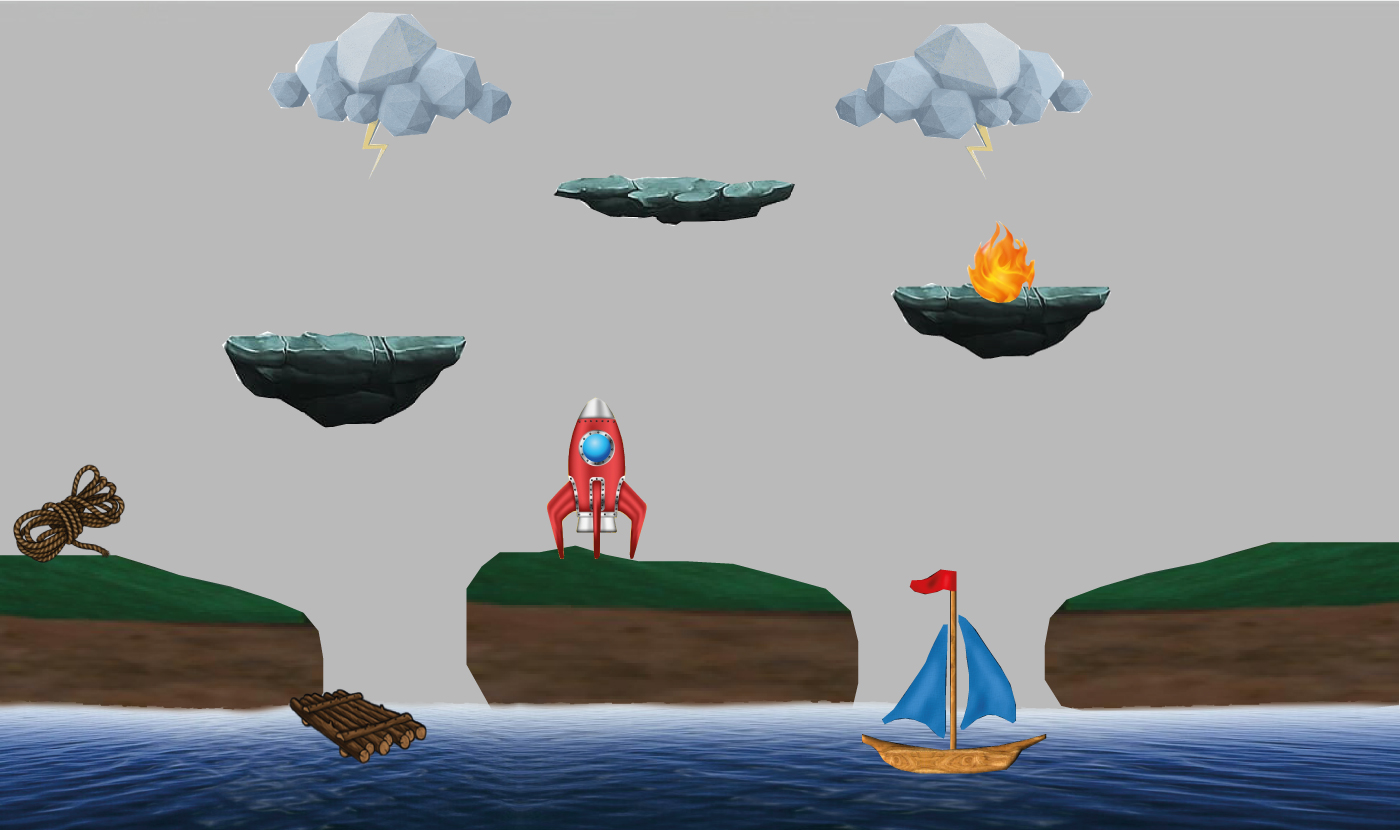
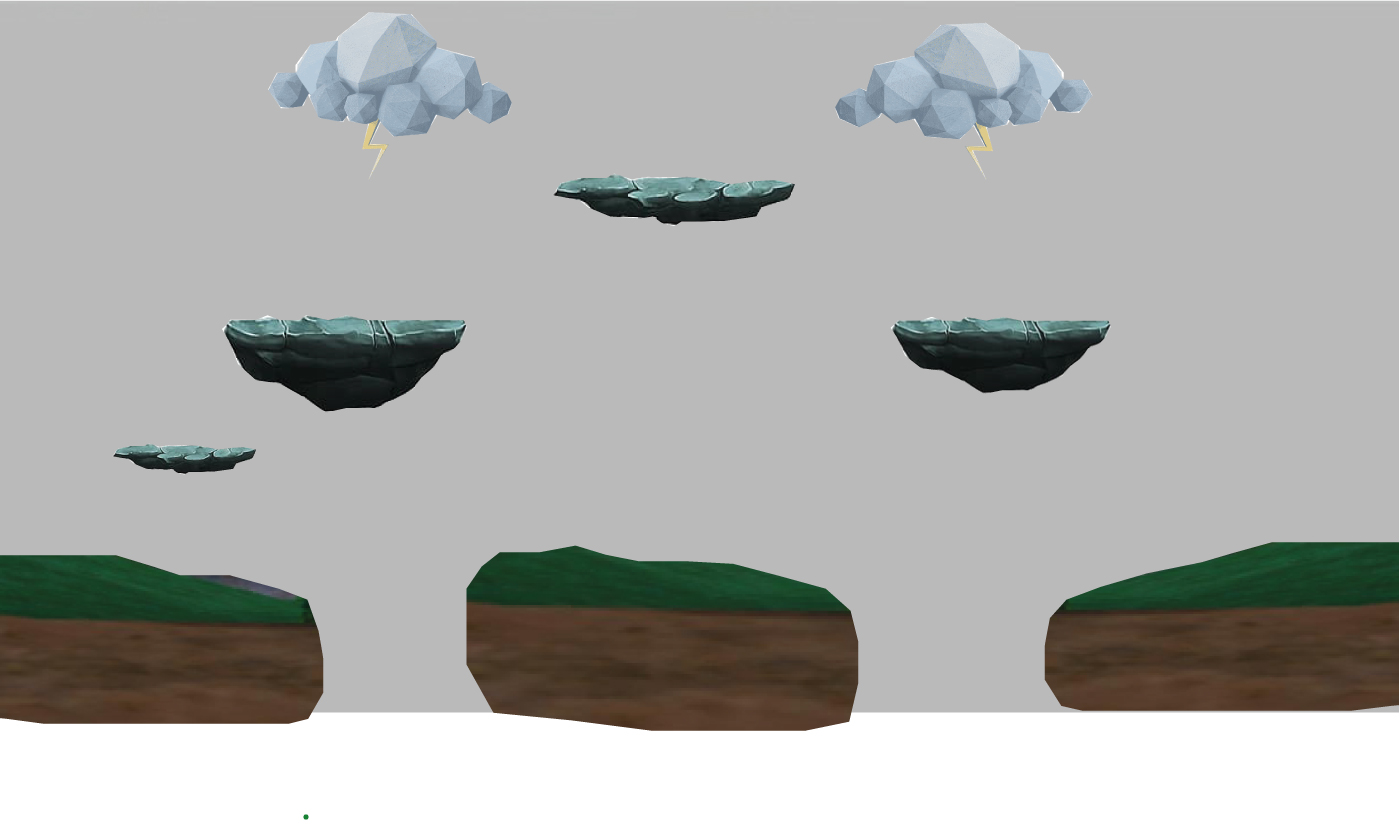
Merge branch 'master' of D:\GodLikeGame with conflicts.

diff --git a/src/GameStates/Level2State.java b/src/GameStates/Level2State.java
@@ -22,16 +22,14 @@ public class Level2State extends GameState {
     private Ladder[] l;
     private EObjects[] e;
     private int seconds;
-    String time;
-    Timer timer;
     private Image background;
     Animation playerImage;
     private Image owl;
-    private Image eBefore;
-    private Image eAfter;
+    private Image rope;
+    private Image rocket;
     private Image empty;
-    private Image fruit;
-    private Image potion;
+    private Image fire;
+    private Image sea;
 
     public Level2State(GameStateManager gsm) {
         super(gsm);
@@ -43,17 +41,17 @@ public class Level2State extends GameState {
         playerImage = new Animation(Animation.stayR());
         background = new ImageIcon("images/level2Background.jpg").getImage();
         owl = new ImageIcon("images/owl.png").getImage();
-        eBefore = new ImageIcon("images/eBefore.jpg").getImage();
-        eAfter = new ImageIcon("images/eAfter.jpg").getImage();
+        rope = new ImageIcon("images/rope.png").getImage();
+        rocket = new ImageIcon("images/rocket.png").getImage();
         empty = new ImageIcon("images/empty.png").getImage();
-        fruit = new ImageIcon("images/lvl3Fruit.png").getImage();
-        potion = new ImageIcon("images/lvl3Potion.png").getImage();
-        player = new Player(playerImage, 60, 130, 300, 550, gameStateManager);
+        fire = new ImageIcon("images/fire.png").getImage();
+        sea = new ImageIcon("images/sea.png").getImage();
+        player = new Player(playerImage, 60, 130, 280, 550, gameStateManager);
 
         b = new Block[2];
 
-        b[0] = new Block(0,725,425,10);
-        b[1] = new Block(0, 650, 400, 10);
+        b[0] = new Block(0,725,400,10);
+        b[1] = new Block(0, 610, 300, 10);
 /*
 
         b[2] = new Block(220, 243, 565, 10);
@@ -72,11 +70,13 @@ public class Level2State extends GameState {
         l = new Ladder[1];
         l[0] = new Ladder(995, 365, 100, 220);
 
-        e = new EObjects[4];
+        e = new EObjects[5];
         e[0] = new EObjects(800, 25, owl, empty, true);
-        e[1] = new EObjects(1010, 330, eBefore, eAfter, false);
-        e[2] = new EObjects(850, 500, potion, empty, false);
-        e[3] = new EObjects(300, 160, eBefore, eAfter, false);
+        e[1] = new EObjects(0, 530, rope, empty, true);
+        e[2] = new EObjects(970, 240, fire, empty, false);
+        e[3] = new EObjects(0, 555, sea, empty, false);
+        e[4] = new EObjects(547, 398, rocket, empty, false);
+
 
 
     }
@@ -88,23 +88,23 @@ public class Level2State extends GameState {
             b[i].tick();
         }
 
-        for (int i = 0; i < l.length; i++) {
+        /*for (int i = 0; i < l.length; i++) {
             l[i].tick();
-        }
+        }*/
         for (int i = 0; i < e.length; i++) {
             e[i].tick();
         }
-        player.tickLadder(l);
+        //player.tickLadder(l);
         player.tickEObjects(e);
         player.tickBlock(b);
 
         if (e[0].isActivated()) {
             //b[11] = new Block(1390, 210, 10, 170);
         }
-        if (e[3].isActivated()) {
+        /*if (e[3].isActivated()) {
             //TODO
             //gameStateManager.states.push(new Level4State(gameStateManager));
-        }
+        }*/
         if(player.isFallen){
             //TODO ask menu
             seconds = 90;
@@ -127,7 +127,7 @@ public class Level2State extends GameState {
 
     @Override
     public void keyPressed(int key) {
-        player.keyPressed(key, b, l, e);
+        player.keyPressed(key, b,l, e);
 
     }
 
